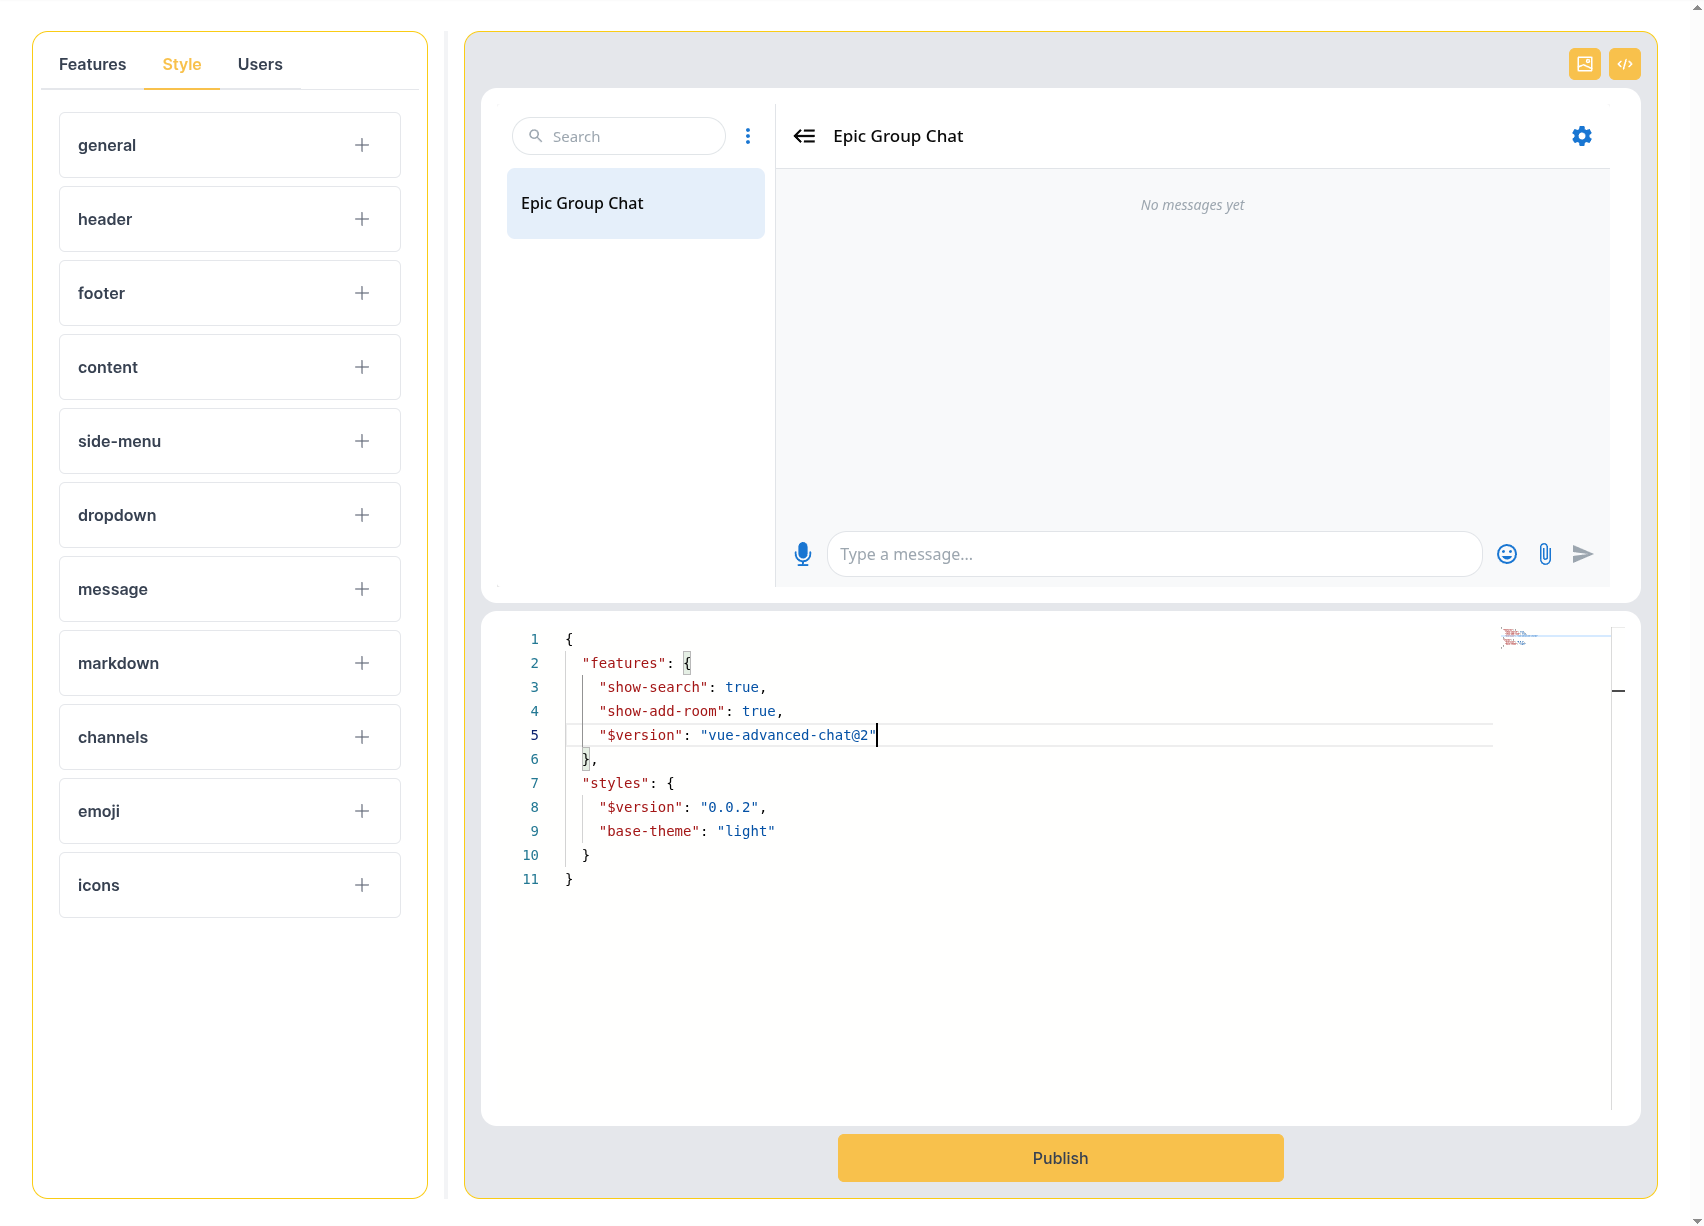
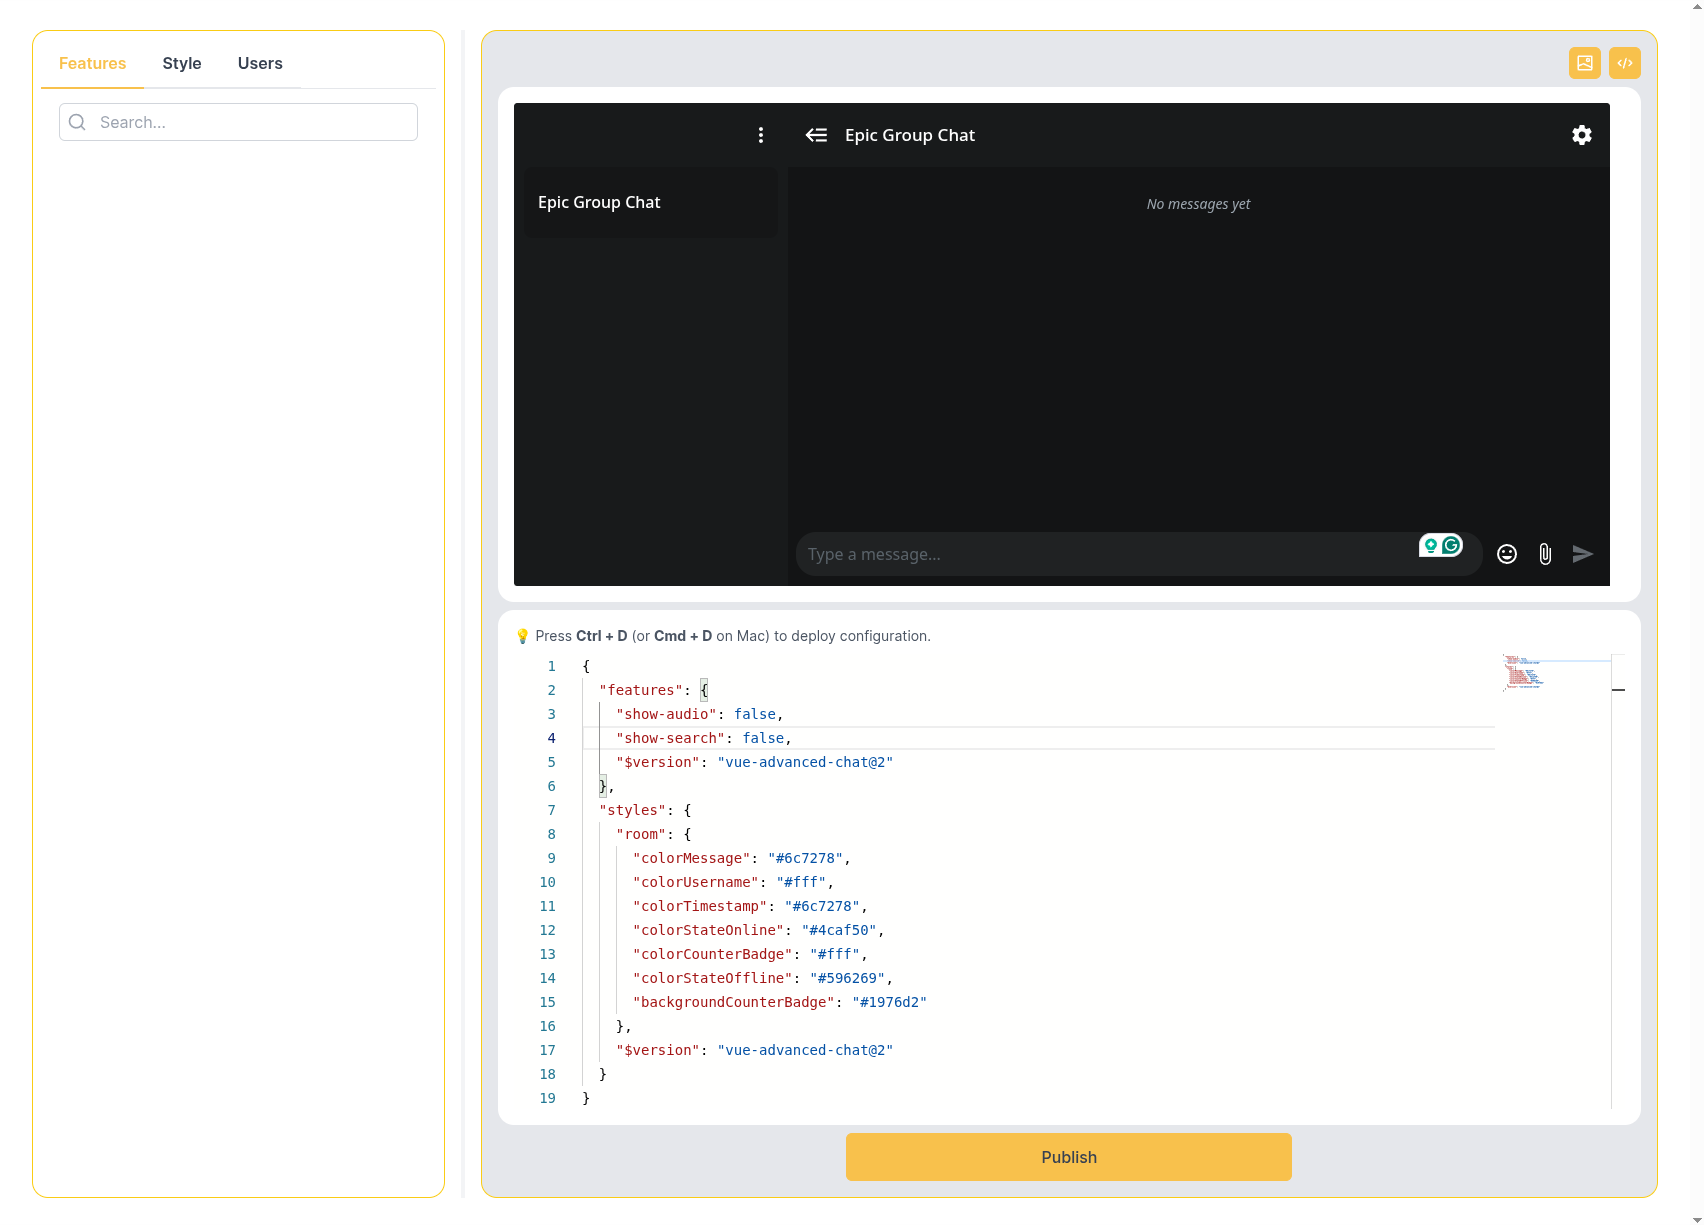
docs: Update README

diff --git a/README.md b/README.md
@@ -877,6 +877,13 @@ You can find a full example in the `demo/chatkitty` folder.
 Customize your vue-advanced-chat theme and features using the ChatKitty console, setting the feature schema version to `vue-advanced-chat@2` in your project settings:
 ![ChatKitty Console](demo/chatkitty/assets/chatkitty-console.png)
 
+### Styling via ChatKitty
+You can customize the vue-advanced-chat theme directly from the ChatKitty console without having to write any code.
+
+- Go to the ChatKitty console [https://console.chatkitty.com](https://console.chatkitty.com)
+- In the code editor, setting the styles schema version to `vue-advanced-chat@2` and change the styles under the `styles` key to customize your chat theme.
+- You can find the full options [here](src/themes/index.js)
+
 ## Using with Firestore
 
 ### Source code
